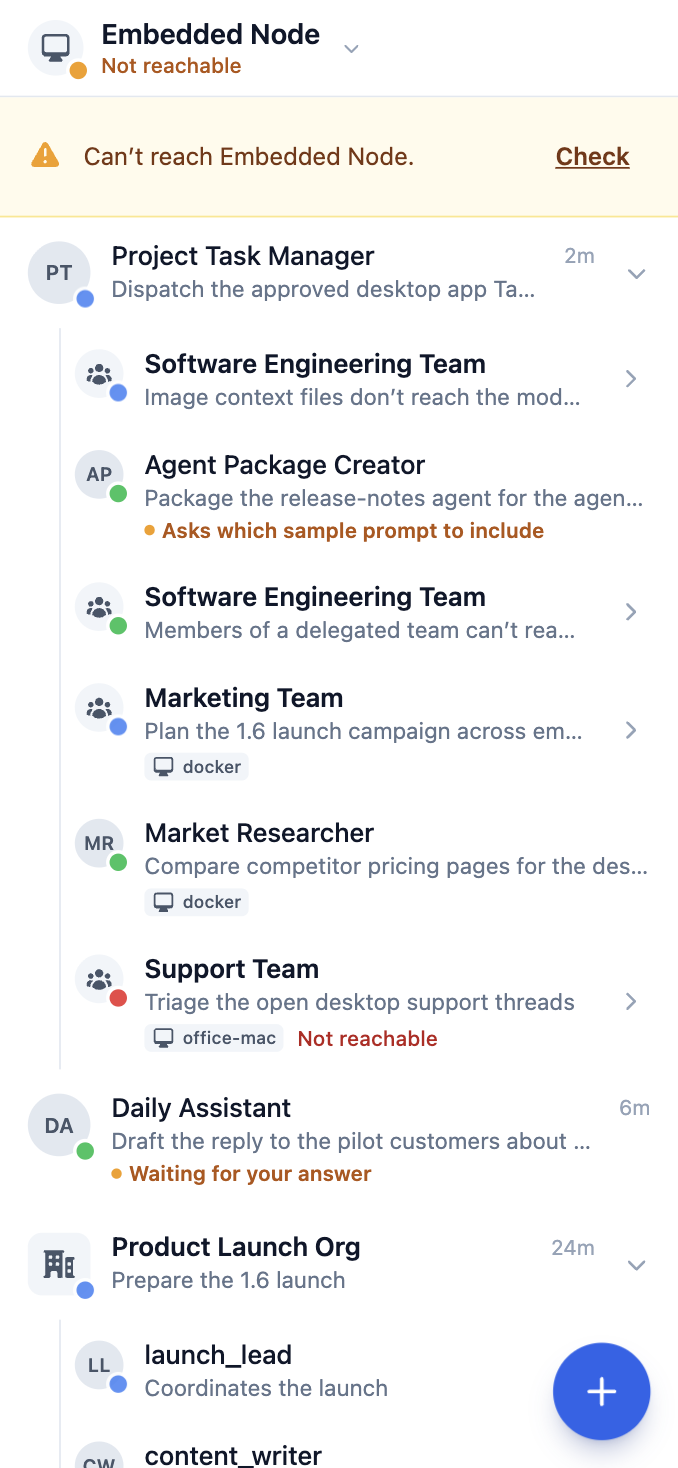
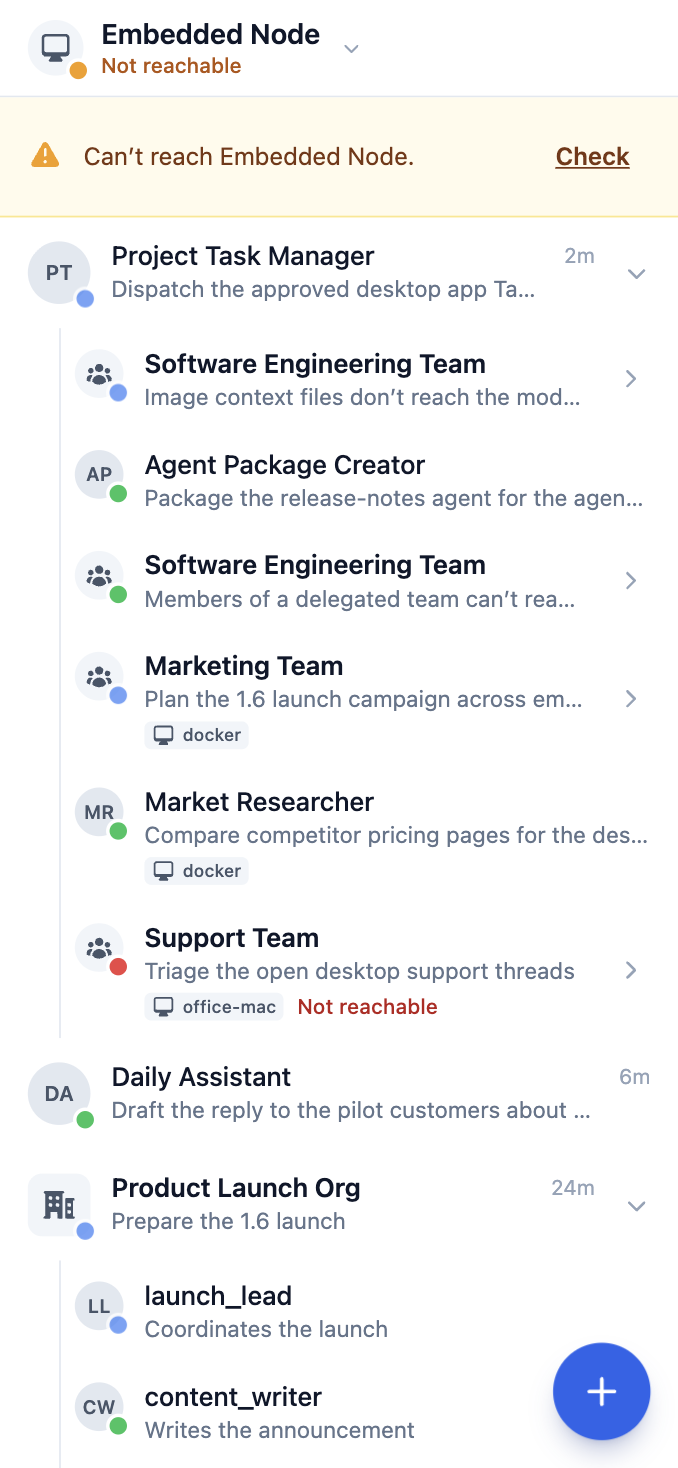
design(mobile-experience-redesign): remove the invented "needs you" marker (rows, dots, fixture data); screenshots retaken; spec updated

diff --git a/prototype/mobile-runs/mobileRunsFixture.ts b/prototype/mobile-runs/mobileRunsFixture.ts
@@ -29,8 +29,6 @@ export type MobileRunNode = {
   minutes: number
   /** The node a run on another node runs on; absent for runs on the paired node. */
   node?: string
-  /** OPTIONAL element OPT-001 ("needs you"): a run waiting for an answer or an approval. */
-  needsYou?: string
   children?: MobileRunNode[]
 }
 
@@ -57,7 +55,7 @@ export const MOBILE_RUNS: MobileRunNode[] = [
           },
         }),
       },
-      { id: 'mx-apc-0001', kind: 'agent', name: 'Agent Package Creator', summary: 'Package the release-notes agent for the agent store', status: 'idle', minutes: 9, needsYou: 'Asks which sample prompt to include' },
+      { id: 'mx-apc-0001', kind: 'agent', name: 'Agent Package Creator', summary: 'Package the release-notes agent for the agent store', status: 'idle', minutes: 9 },
       {
         id: 'mx-set-0002', kind: 'team', name: 'Software Engineering Team', summary: 'Members of a delegated team can’t reach the package creator', status: 'idle', minutes: 18,
         children: SET_MEMBERS('0002', 'idle', 'idle', 'idle'),
@@ -80,7 +78,7 @@ export const MOBILE_RUNS: MobileRunNode[] = [
       },
     ],
   },
-  { id: 'mx-da-0001', kind: 'agent', name: 'Daily Assistant', summary: 'Draft the reply to the pilot customers about the new date', status: 'idle', minutes: 6, needsYou: 'Waiting for your answer' },
+  { id: 'mx-da-0001', kind: 'agent', name: 'Daily Assistant', summary: 'Draft the reply to the pilot customers about the new date', status: 'idle', minutes: 6 },
   {
     id: 'mx-org-0001', kind: 'org', name: 'Product Launch Org', summary: 'Prepare the 1.6 launch', status: 'running', minutes: 24,
     children: [
@@ -127,14 +125,6 @@ const conversationFor = (node: MobileRunNode, at: number): Array<Record<string, 
       { kind: 'tool_call', invocationId: 'mx-ptm-d1', toolName: 'delegate_task', toolArgs: { recipient_address: '/software_engineering_team', description: 'Image context files don’t reach the model on the first turn' }, toolResult: 'Started Software Engineering Team.', ts: stamp(10_000) },
       { kind: 'tool_call', invocationId: 'mx-ptm-d2', toolName: 'delegate_task', toolArgs: { recipient_address: '/marketing_team', node: 'docker', description: 'Plan the 1.6 launch campaign' }, toolResult: 'Started Marketing Team on node docker.', ts: stamp(20_000) },
       { kind: 'message', role: 'assistant', content: 'Delegated six Tasks: two to copies of the Software Engineering Team, one to the Agent Package Creator, two to the Marketing Team and the Market Researcher on docker, and one to the Support Team on office-mac. I will report when they finish.', ts: stamp(40_000) },
-    ]
-  }
-  if (node.needsYou) {
-    return [
-      { kind: 'message', role: 'user', content: node.summary, ts: stamp(0) },
-      { kind: 'message', role: 'assistant', content: node.id === 'mx-da-0001'
-        ? 'Here is a draft for the 12 pilot customers: “Thank you for your patience. The new date is the 24th, and we will confirm the schedule on the 10th.” Should I send it to all 12, or only to the five who asked?'
-        : 'I packaged the release-notes agent. Which sample prompt should I include: the short one or the one with a worked example?', ts: stamp(40_000) },
     ]
   }
   if (node.kind === 'member') {

diff --git a/components/mobile/MobileRunRow.vue b/components/mobile/MobileRunRow.vue
@@ -49,11 +49,6 @@
               data-testid="mobile-run-unreachable"
             >Not reachable</span>
           </span>
-          <span
-            v-if="node.needsYou && !unreachable"
-            class="mt-0.5 flex items-center gap-1 text-xs font-semibold text-amber-700"
-            data-testid="mobile-run-needs-you"
-          ><span class="h-1.5 w-1.5 rounded-full bg-amber-500" aria-hidden="true" />{{ node.needsYou }}</span>
         </span>
         <span v-if="depth === 0" class="mt-0.5 flex-shrink-0 text-xs text-slate-400" data-testid="mobile-run-age">{{ age }}</span>
       </button>
@@ -67,7 +62,6 @@
         data-testid="mobile-run-toggle"
         @click="store.toggle(node)"
       >
-        <span v-if="!expanded && hiddenNeedsYou" class="absolute right-2 top-2 h-2 w-2 rounded-full bg-amber-500 ring-2 ring-white" aria-hidden="true" />
         <Icon icon="heroicons:chevron-down-20-solid" class="h-5 w-5 transition-transform" :class="expanded ? 'rotate-0' : '-rotate-90'" aria-hidden="true" />
       </button>
     </div>
@@ -106,7 +100,6 @@ const hasChildren = computed(() => Boolean(props.node.children?.length))
 const expanded = computed(() => store.isExpanded(props.node))
 const isSelected = computed(() => props.selectedId === props.node.id)
 const unreachable = computed(() => !store.isNodeReachable(props.node.node))
-const hiddenNeedsYou = computed(() => store.needsYouBelow(props.node) > 0)
 const disclosureNoun = computed(() => (props.node.kind === 'team' || props.node.kind === 'org' ? 'members' : 'delegated work'))
 const dotClass = computed(() => agentStatusDotClass(unreachable.value ? 'error' : props.node.status))
 const initials = computed(() => props.node.name.replace(/_/g, ' ').split(' ').filter(Boolean).slice(0, 2).map((word) => word[0]?.toUpperCase()).join(''))
@@ -118,5 +111,5 @@ const age = computed(() => {
   if (minutes < 7 * 24 * 60) return `${Math.floor(minutes / (24 * 60))}d`
   return `${Math.floor(minutes / (7 * 24 * 60))}w`
 })
-const accessibleLabel = computed(() => [props.node.name, props.node.summary, props.node.node ? `on ${props.node.node}` : '', props.node.needsYou ?? '', props.node.status].filter(Boolean).join(', '))
+const accessibleLabel = computed(() => [props.node.name, props.node.summary, props.node.node ? `on ${props.node.node}` : '', props.node.status].filter(Boolean).join(', '))
 </script>

diff --git a/stores/mobileRunTreeStore.ts b/stores/mobileRunTreeStore.ts
@@ -65,10 +65,6 @@ export const useMobileRunTreeStore = defineStore('mobileRunTree', () => {
   const targetOf = (node: MobileRunNode): MobileRunNode =>
     (node.kind === 'team' || node.kind === 'org') && node.children?.length ? node.children[0] : node
 
-  /** Descendants that wait for the user (optional element OPT-001), shown on a folded parent. */
-  const needsYouBelow = (node: MobileRunNode): number =>
-    flattenRunIds(node.children ?? []).filter((child) => child.needsYou).length
-
   function select(id: string | null): void { selectedId.value = id }
   /** The first message gives a new run its permanent id; the run keeps its place and stays open. */
   function renameLaunched(oldId: string, newId: string): void {
@@ -83,6 +79,6 @@ export const useMobileRunTreeStore = defineStore('mobileRunTree', () => {
 
   return {
     listState, runs, visibleRuns, olderCount, showOlder, selectedId, peers, checkedAt, all,
-    byId, addLaunched, renameLaunched, parentOf, pathTo, rootOf, isExpanded, toggle, isNodeReachable, targetOf, needsYouBelow, select, retry,
+    byId, addLaunched, renameLaunched, parentOf, pathTo, rootOf, isExpanded, toggle, isNodeReachable, targetOf, select, retry,
   }
 })

diff --git a/tickets/in-progress/mobile-experience-redesign/ui-ux-spec.md b/tickets/in-progress/mobile-experience-redesign/ui-ux-spec.md
@@ -4,7 +4,7 @@ Canonical contract for the AutoByteus mobile web shell (`/mobile`, wrapped by th
 
 ## Status And User Confirmation
 
-- Status: `Approved` (2026-11-06): "okayyy. everything is good now. i approve". The three open items (DEC-003, OPT-001, the composer row) were not answered separately; they are recorded under Decisions as approved through the design as built, and flagged for the Solution Designer to confirm with him if he wants a different answer.
+- Status: `Approved` (2026-11-06): "okayyy. everything is good now. i approve". DEC-003 and the composer row were not answered separately; they are recorded under Decisions as approved through the design as built.
 - Request / ticket: `mobile-experience-redesign` (Project Task `autobyteus-277`, Project `project_a1377344-25db-482a-97cc-ecfdb0fb495a`). No second ID.
 - Related requirements revision ID: `SR-001` (`requirements-doc.md` Draft).
 - Related IDs: REQ-001…REQ-009; BEH-001…BEH-006; AC-001…AC-010; DEC-001…DEC-006; follow-up FU-001 = Project Task `autobyteus-391`.
@@ -48,7 +48,6 @@ Canonical contract for the AutoByteus mobile web shell (`/mobile`, wrapped by th
   5. **Start work is one round "+" button** (bottom right, within thumb reach, no words).
   6. **Connection, pairing status, peers and unpair are one bottom sheet** opened from the node name in the top bar (the old Home status card and Troubleshoot page are gone).
   7. **Nothing the desktop does not have** (the user's rule): no Files filters, no "Attach" button on a file, no run counts, no mobile-only labels.
-  8. **Optional, marked: "needs you"** (OPT-001). An amber line on a row waiting for an answer or an approval, and an amber dot on a folded parent. Unproven for runs the phone does not stream (DEC-005, investigation U-003); engineering checks it before it becomes a requirement.
 - **Alternatives considered and why they were rejected.**
   - Five bottom tabs plus a Home screen: rejected by the user; three copies of the run list.
   - A sibling strip and a tree sheet on the run screen (built, shown in review, removed by the user): static or rarely used controls on the conversation.
@@ -96,8 +95,8 @@ Existing language preserved: the mobile shell's slate neutrals with blue-600 as 
 
 - **Layout.** Every screen is a full-viewport column (`100dvh`): a bar, a scrolling body, nothing else fixed except the "+" button on the run list, the composer on the run screen, and "Create run" on New run. Safe-area insets are respected (`env(safe-area-inset-bottom)`).
 - **Bars.** Run list bar 56px (white, 1px `slate-200` bottom border): the node button (32px circle `slate-100` with a computer icon and a 10px status dot with a 2px white ring; name 16px/600; state 12px `slate-500`, amber-700 when not reachable; a 16px chevron `slate-400`), 48px tall target. Run screen bar 56px: ← (48×48), a 10px status dot, the name 16px/600 (one line, truncated), the line below 12px `slate-500` (state · "in <parent>"; for a run on another node the node chip first), ⋮ (48×48). Artifacts, Messages, Activity and the reference viewer bars 48px: ← and the title 16px/600. Files bar 48px: ←, "Files", a search icon (48×48).
-- **Run row.** Top-level row min-height 64px (padding 12px 0 12px 16px); delegated row 56px. Left: an avatar (top-level 36px, delegated 28px; agents and members: initials in a `slate-200` circle, 12px/11px 600 `slate-600`; teams: the people icon in a `slate-100` circle; Org: the building icon in a `slate-100` rounded square) with a status dot at its bottom right (10px, 2px ring white, or `blue-50` when the row is the open run): `blue-500` pulsing running, `green-500` idle, `amber-500` pulsing starting, `red-500` error and a run on an unreachable node, `gray-400` stopped. Text: the name 15px/500 (teams and Orgs 600) `slate-900`, one line; the title or Task line 13px `slate-500`, one line; for a run on another node a third line with the node chip (`RemoteNodeChip`, 10px text, `slate-100`) and, when unreachable, "Not reachable" 12px/500 `red-700`; for OPT-001 a third line with a 6px amber-500 dot and the text 12px/600 `amber-700`. The age (top-level rows only) 12px `slate-400`, top right ("now", "6m", "2h", "3d", "1w"). The open run's row is `blue-50`.
-- **Tree.** A run's delegated work and members are a nested list: a 1px `slate-200` vertical rail with its left margin 34px under a top-level row (aligned to the avatar's center) and 20px at deeper levels; no separators between rows or runs; no counts. A chevron button (48×48, `slate-400`, 20px, rotated −90° when folded) at the right of a row that has children; tapping the row's body opens the conversation, tapping the chevron folds or unfolds. Default: a run with delegated work and an Org run are unfolded, a team's members are folded. Folding never stops anything. On a folded parent with a waiting descendant, an 8px amber-500 dot (2px white ring) sits at the chevron's top right (OPT-001).
+- **Run row.** Top-level row min-height 64px (padding 12px 0 12px 16px); delegated row 56px. Left: an avatar (top-level 36px, delegated 28px; agents and members: initials in a `slate-200` circle, 12px/11px 600 `slate-600`; teams: the people icon in a `slate-100` circle; Org: the building icon in a `slate-100` rounded square) with a status dot at its bottom right (10px, 2px ring white, or `blue-50` when the row is the open run): `blue-500` pulsing running, `green-500` idle, `amber-500` pulsing starting, `red-500` error and a run on an unreachable node, `gray-400` stopped. Text: the name 15px/500 (teams and Orgs 600) `slate-900`, one line; the title or Task line 13px `slate-500`, one line; for a run on another node a third line with the node chip (`RemoteNodeChip`, 10px text, `slate-100`) and, when unreachable, "Not reachable" 12px/500 `red-700`;. The age (top-level rows only) 12px `slate-400`, top right ("now", "6m", "2h", "3d", "1w"). The open run's row is `blue-50`.
+- **Tree.** A run's delegated work and members are a nested list: a 1px `slate-200` vertical rail with its left margin 34px under a top-level row (aligned to the avatar's center) and 20px at deeper levels; no separators between rows or runs; no counts. A chevron button (48×48, `slate-400`, 20px, rotated −90° when folded) at the right of a row that has children; tapping the row's body opens the conversation, tapping the chevron folds or unfolds. Default: a run with delegated work and an Org run are unfolded, a team's members are folded. Folding never stops anything. 
 - **"+" button.** 56px circle `blue-600` (pressed `blue-700`), a 28px white plus, `shadow-lg` tinted blue-900/25, fixed 16px from the right and `max(16px, safe-area)` from the bottom; accessible name "New run". The list has 112px bottom padding so the last row clears it.
 - **Fold row.** "Show older (N)" / "Show fewer": a 48px tall centered button, 14px/600 `blue-700`, under the list.
 - **⋮ menu.** A popup under the ⋮ at the right edge: 288px wide, `rounded-xl`, 1px `slate-200` border, `shadow-lg`, white; items 48px tall, 15px `slate-800`, a 20px `slate-500` icon, 16px side padding; a click outside closes it. Items in this order: Artifacts, Files, Messages (only for a member of a team or Org), Activity.
@@ -113,7 +112,7 @@ Existing language preserved: the mobile shell's slate neutrals with blue-600 as 
 | Component | Purpose | Variants And States | UI Reference Location |
 | --- | --- | --- | --- |
 | Run list screen | The only main screen | populated, loading, empty, read error, node not reachable, notice (unsupported route) | `components/mobile/MobileRunsScreen.vue` |
-| Run row (recursive) | A run or a delegated child with its tree | agent, team, Org, member; idle, running, starting, error, stopped; folded, unfolded; open; remote (reachable, not reachable); waiting (OPT-001) | `MobileRunRow.vue`, `stores/mobileRunTreeStore.ts` |
+| Run row (recursive) | A run or a delegated child with its tree | agent, team, Org, member; idle, running, starting, error, stopped; folded, unfolded; open; remote (reachable, not reachable) | `MobileRunRow.vue`, `stores/mobileRunTreeStore.ts` |
 | Run screen | One agent's conversation | root run, delegated child, team member, remote not reachable, "Opening…" | `MobileRunScreen.vue`, `MobileChat.vue` |
 | ⋮ menu | The agent's other views | with or without Messages | `MobileRunScreen.vue` |
 | View screens | Artifacts, Files, Messages, Activity, a reference file | populated, empty, remote note | `MobileResults.vue`, `MobileArtifacts.vue`, `MobileFiles.vue`, `MobileTeamMessages.vue`, `MobileRunActivityList.vue`, `MobileTeamReferenceViewer.vue` |
@@ -142,7 +141,7 @@ Removed (no longer in the product's phone shell): Home, the work shell with its 
 
 1. Open the app (paired): the run list is the first screen. Top bar: the node's name and its state. Rows newest first by last activity; the newest 5 runs show, then "Show older (N)".
 2. A run with delegated work is unfolded: its task agents and task teams are nested under it (rail, no counts); a task team shows folded (chevron); tap the chevron to see its members; a member's own delegated work nests under it. A run on another node carries its node's chip.
-3. Each row shows its live state as a dot. A row waiting for the user shows OPT-001. VIS-001, 002.
+3. Each row shows its live state as a dot. VIS-001, 002.
 4. "Show older (N)" opens the rest in the same list ("Show fewer" closes). VIS-003, 004.
 
 ### UXJ-002 — Open any run
@@ -274,7 +273,6 @@ The same screens at 360×800: no horizontal scrolling (checked: the document is 
 | An opened run's conversation | Run screen | An invented stored conversation per run; the real conversation view and composer | The desktop's target resolver (`activeContextStore.activeWorkspaceTarget`) for any child, local or remote |
 | Remote runs | Chip, not-reachable state, notice | Fixture: `docker` reachable, `office-mac` not | 278: the paired node relays; the composer is text-only for a remote run (the reference shows the shared composer unchanged: a known gap of the reference) |
 | Peer nodes list | Connection sheet | Fixture (`docker` 6 agents · 3 teams, `office-mac` not reachable) | The paired node's `peerNodeOffer`, availability |
-| OPT-001 "needs you" | An amber line and dot | Two invented rows | **Unproven** for runs the phone does not stream (DEC-005): engineering checks before it becomes a requirement |
 | Messages, Activity, a reference file | Screens | Invented rows and file texts (`sampleTeamMessages`, `sampleToolActivities`, `sampleReferenceText`) | The team context and the run's stream; the file read through the team's message |
 | Files search | Files | Looks through the files of the loaded tree | The workspace search on the node |
 | An opened file | Files | After a moment the viewer shows invented text (`sampleReferenceText`; the reference has no file service) | The file read through the authorized workspace file API; "Opening…" while it loads; "Couldn’t open this file." on an error; "This file can’t be shown on the phone." / "too large" |
@@ -288,7 +286,7 @@ The same screens at 360×800: no horizontal scrolling (checked: the document is 
 | --- | --- | --- | --- |
 | DEC-003 | How far remote nodes go on the phone | Not stated separately. Approved through the design as built: **A** (the paired node only: remote delegated runs under their delegator, see and talk, a read-only peer list). His interest in B, in his words: "if we are able to pair with multiple ones, we can just switch between different nodes, right? That would be very convenient." **B** (switch between several paired nodes inside the page) is the follow-up Task **autobyteus-391** (FU-001; not started; it waits for his word). One phone can already be paired with several nodes (one session per node origin); the missing piece is a "Switch node" entry in the web shell, a small Android bridge, no new permission. **C** (start a run on a peer) has no API. | Answered by the approval (A); B waits as autobyteus-391 |
 | DEC-004 | What is not on the phone | His direction in the review, in his words: "on the mobile version … there's no need to switch between … a different workspace or project"; "For new run we only support to create a simple agent run"; no filters on Files ("we do not have any filter" on the desktop); the Attach button removed. The list under "What Is Not On The Phone" is approved with the design. | Answered |
-| DEC-005 / OPT-001 | A "needs you" marker | Not stated separately. It is shown in the approved screenshots (VIS-001, 002) as an **optional** element; it stays optional and unproven (engineering confirms it for runs the phone does not stream before it becomes a requirement). | Approved as optional |
+| DEC-005 | A "needs you" marker on runs waiting for an answer or approval | The user, 2026-11-06, after seeing it: "I suggest that don't like hallucinate and invent things up, remove those, please … Those are not possible in the application, I think." **Removed from the design** (it was an optional, unproven idea with invented texts); the screenshots were retaken without it. If it is ever wanted, it needs its own Task: the app has no status for a run waiting on the user. | Dropped |
 | — | Compact composer | Not designed; the shared composer is unchanged (approved as shown). | Unchanged |
 
 ## Final Visual Reference Inventory
@@ -345,7 +343,6 @@ The desktop and its left panel (385); pairing screens; Android and iOS shell cha
 ## Open Decisions And Risks
 
 1. **DEC-003** — approved as built (A); autobyteus-391 (B) waits for the user's word; C would be its own Task.
-2. **OPT-001 / DEC-005** — the "needs you" marker stays optional; engineering must prove it for runs the phone does not stream.
-3. **Compact composer** — unchanged (not designed).
-4. **Read window and polling** (R-001, QR-003): the run list needs the complete history window; engineering measures it on his real history over Tailscale.
-5. **The reference's invented content** (messages, activity, file texts, node names) is illustrative; it is not real data.
+2. **Compact composer** — unchanged (not designed).
+3. **Read window and polling** (R-001, QR-003): the run list needs the complete history window; engineering measures it on his real history over Tailscale.
+4. **The reference's invented content** (messages, activity, file texts, node names) is illustrative; it is not real data.

diff --git a/tickets/in-progress/mobile-experience-redesign/product-ticket.md b/tickets/in-progress/mobile-experience-redesign/product-ticket.md
@@ -139,8 +139,16 @@ Pending the user's confirmation.
 
 ## Approval and result (2026-11-06)
 
-- The user: "okayyy. everything is good now. i approve". DEC-003 (built: A; B = autobyteus-391), OPT-001 ("needs you", optional) and the composer (unchanged) were not answered separately and are recorded as approved through the design as built.
+- The user: "okayyy. everything is good now. i approve". DEC-003 (built: A; B = autobyteus-391) and the composer (unchanged) were not answered separately and are recorded as approved through the design as built. The optional "needs you" marker was later removed at his request (round 17).
 - Ticket commits: see `git log design/mobile-experience-redesign` (base `a0e18abb`); the final revision is in the result message and the ui-ux-spec.
 - The user's own screenshots: `evidence/user-screenshots/` (index in its README).
 - Integration: `Pending` by the user's standing decision (2026-11-04): an approved design stays on its ticket branch until it is implemented, so `personal` keeps mirroring the shipped product. The branch is pushed to `origin` and is merged into `personal` only after the Solution Designer reports it implemented and the user confirms. Worktree and branch are kept on purpose; the UI reference process is stopped (restart: the runbook section).
 - Default branch `personal`: local and `origin` at `a0e18abb` (unchanged).
+
+
+## Review round 17 (2026-11-06) — the "needs you" marker is removed
+
+- The user asked what the "needs you" marker is, and why rows say "Waiting for your answer" and "Asks which sample prompt to include". Answer given: the Product Designer invented those texts in the reference's sample data to show how a marker might look; the product has nothing like it.
+- The user: "I suggest that don't like hallucinate and invent things up, remove those, please, thanks a lot. Remove those. Those are not possible in the application, I think."
+- Change: the marker is removed completely: the amber line on rows, the amber dot on a folded parent, the `needsYou` fixture data and the invented question in those runs' conversations. Screenshots VIS-001, 002, 003, 004, 024 and 025 were retaken. DEC-005 is closed as "dropped" in the spec; the spec no longer mentions OPT-001 as a feature.
+- Lesson recorded for later work: do not put invented copy or invented product behavior in front of the user; every visible element needs a source (a product path or his words).
